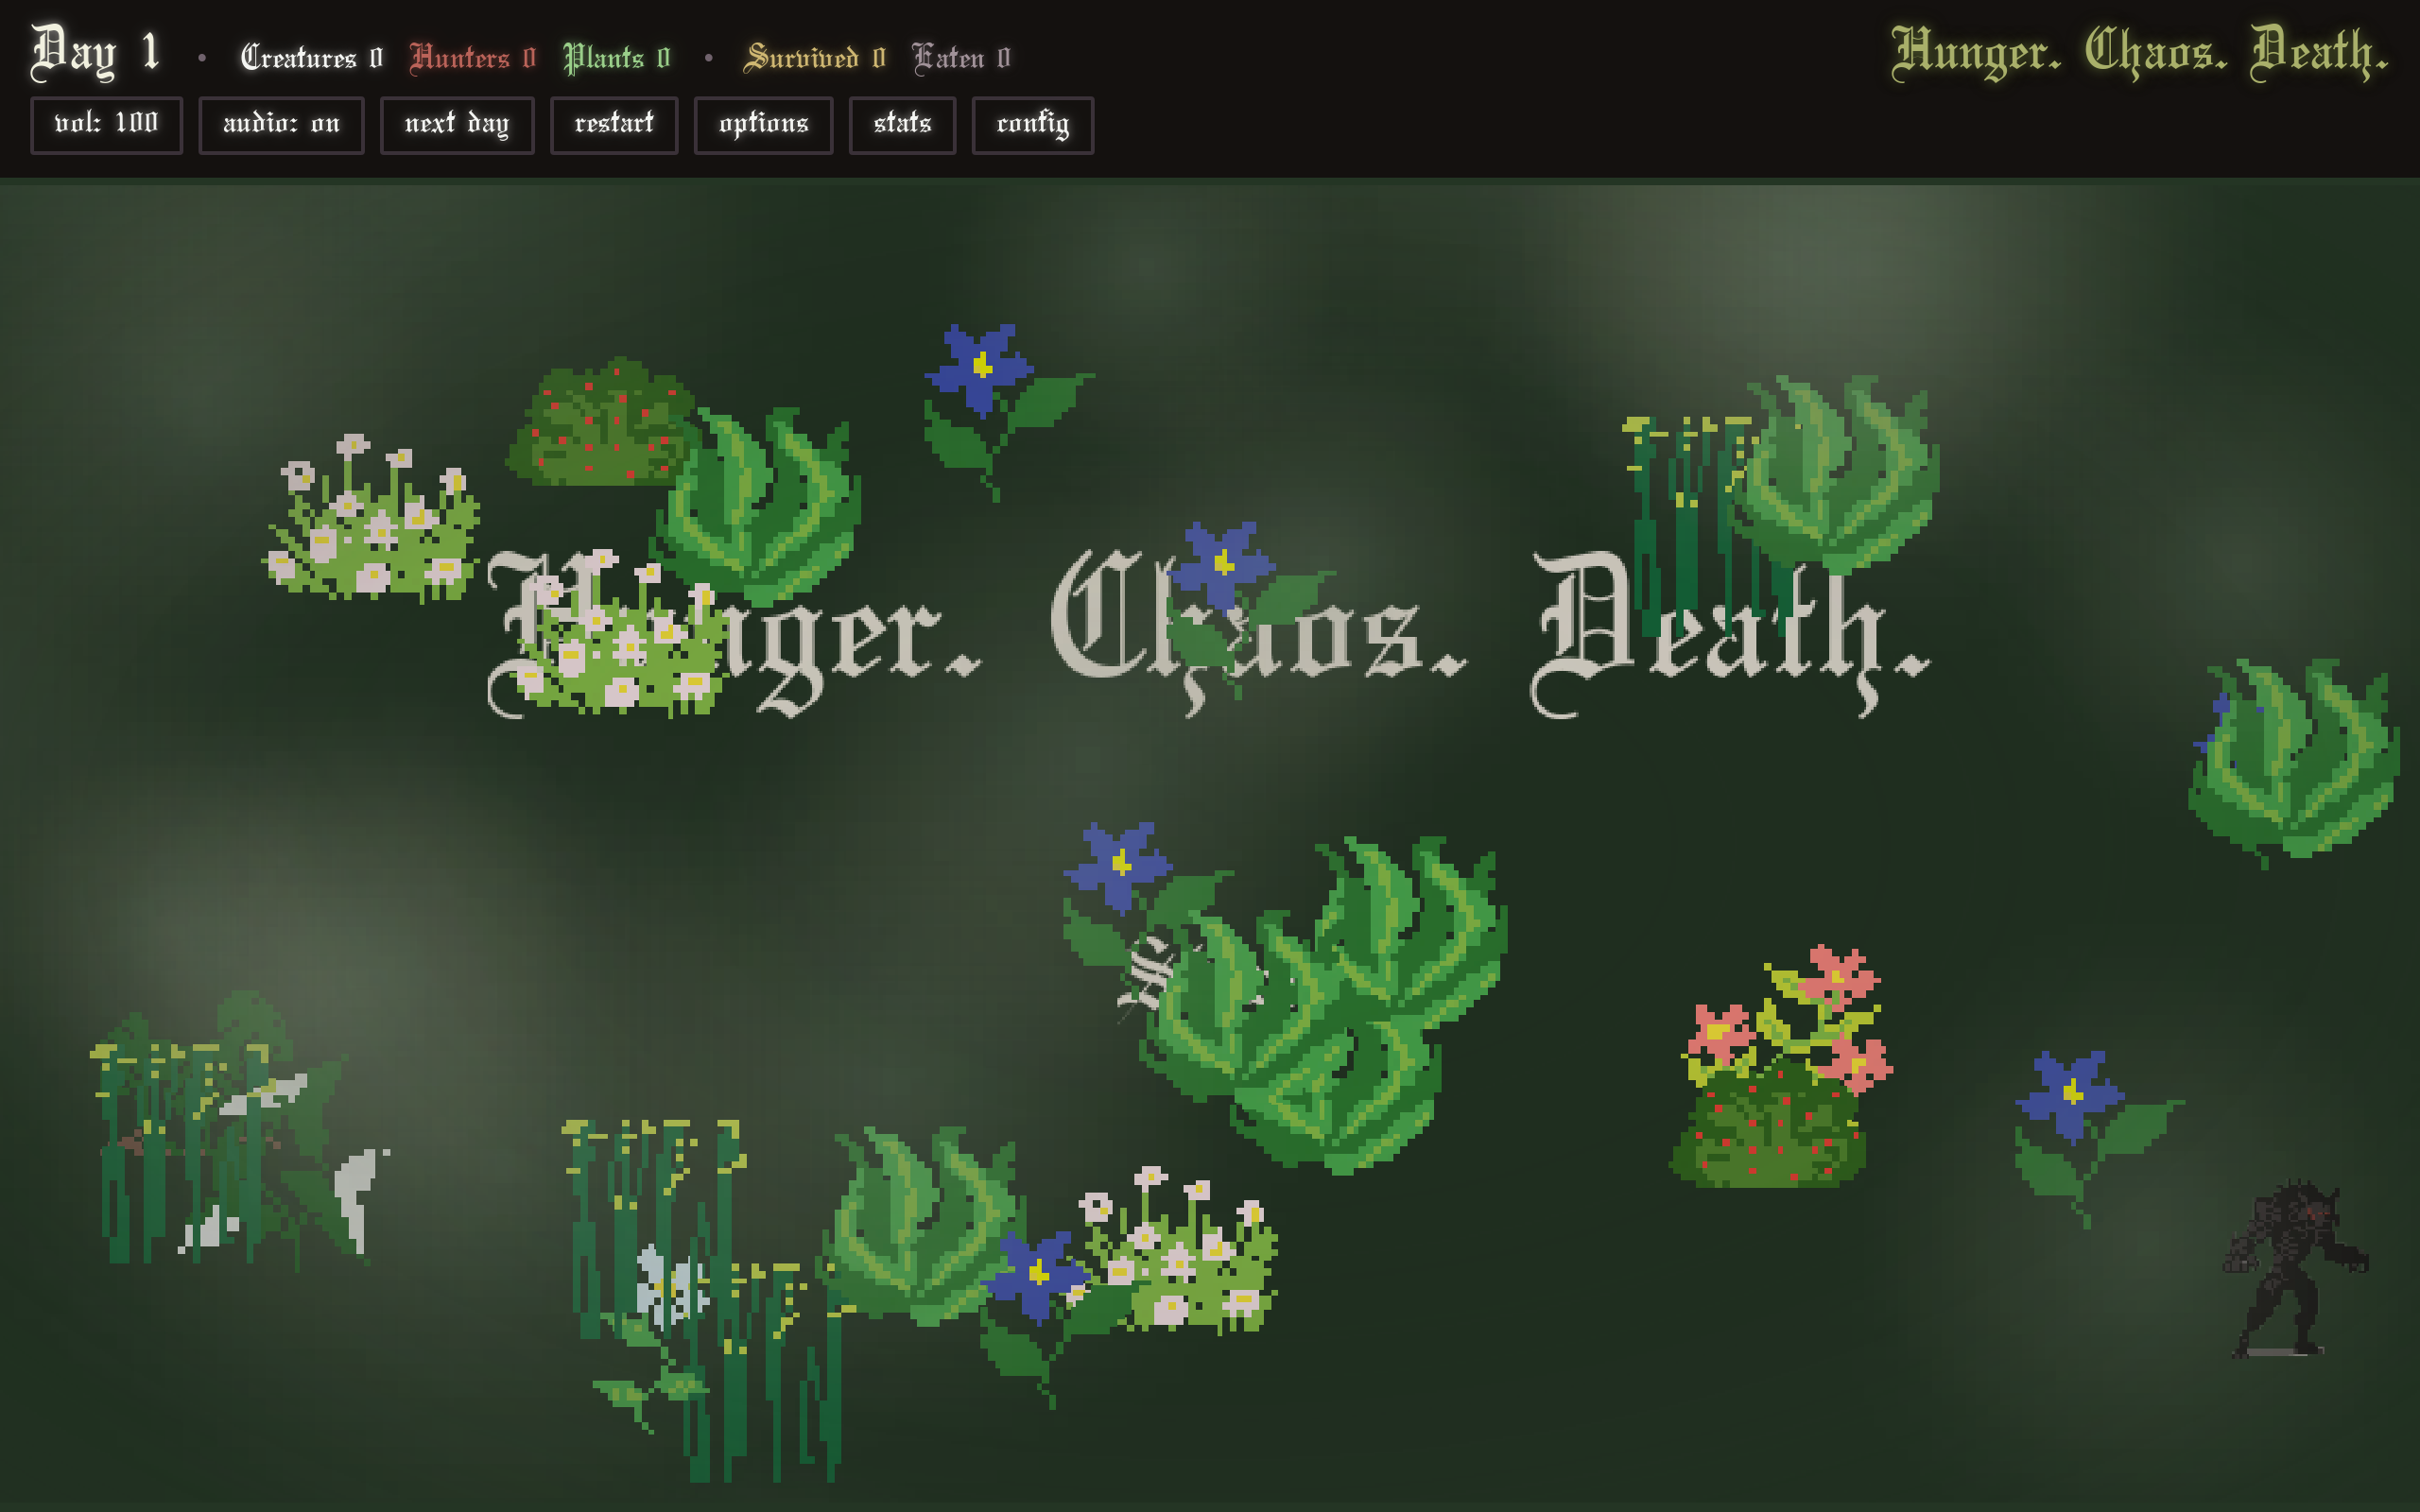
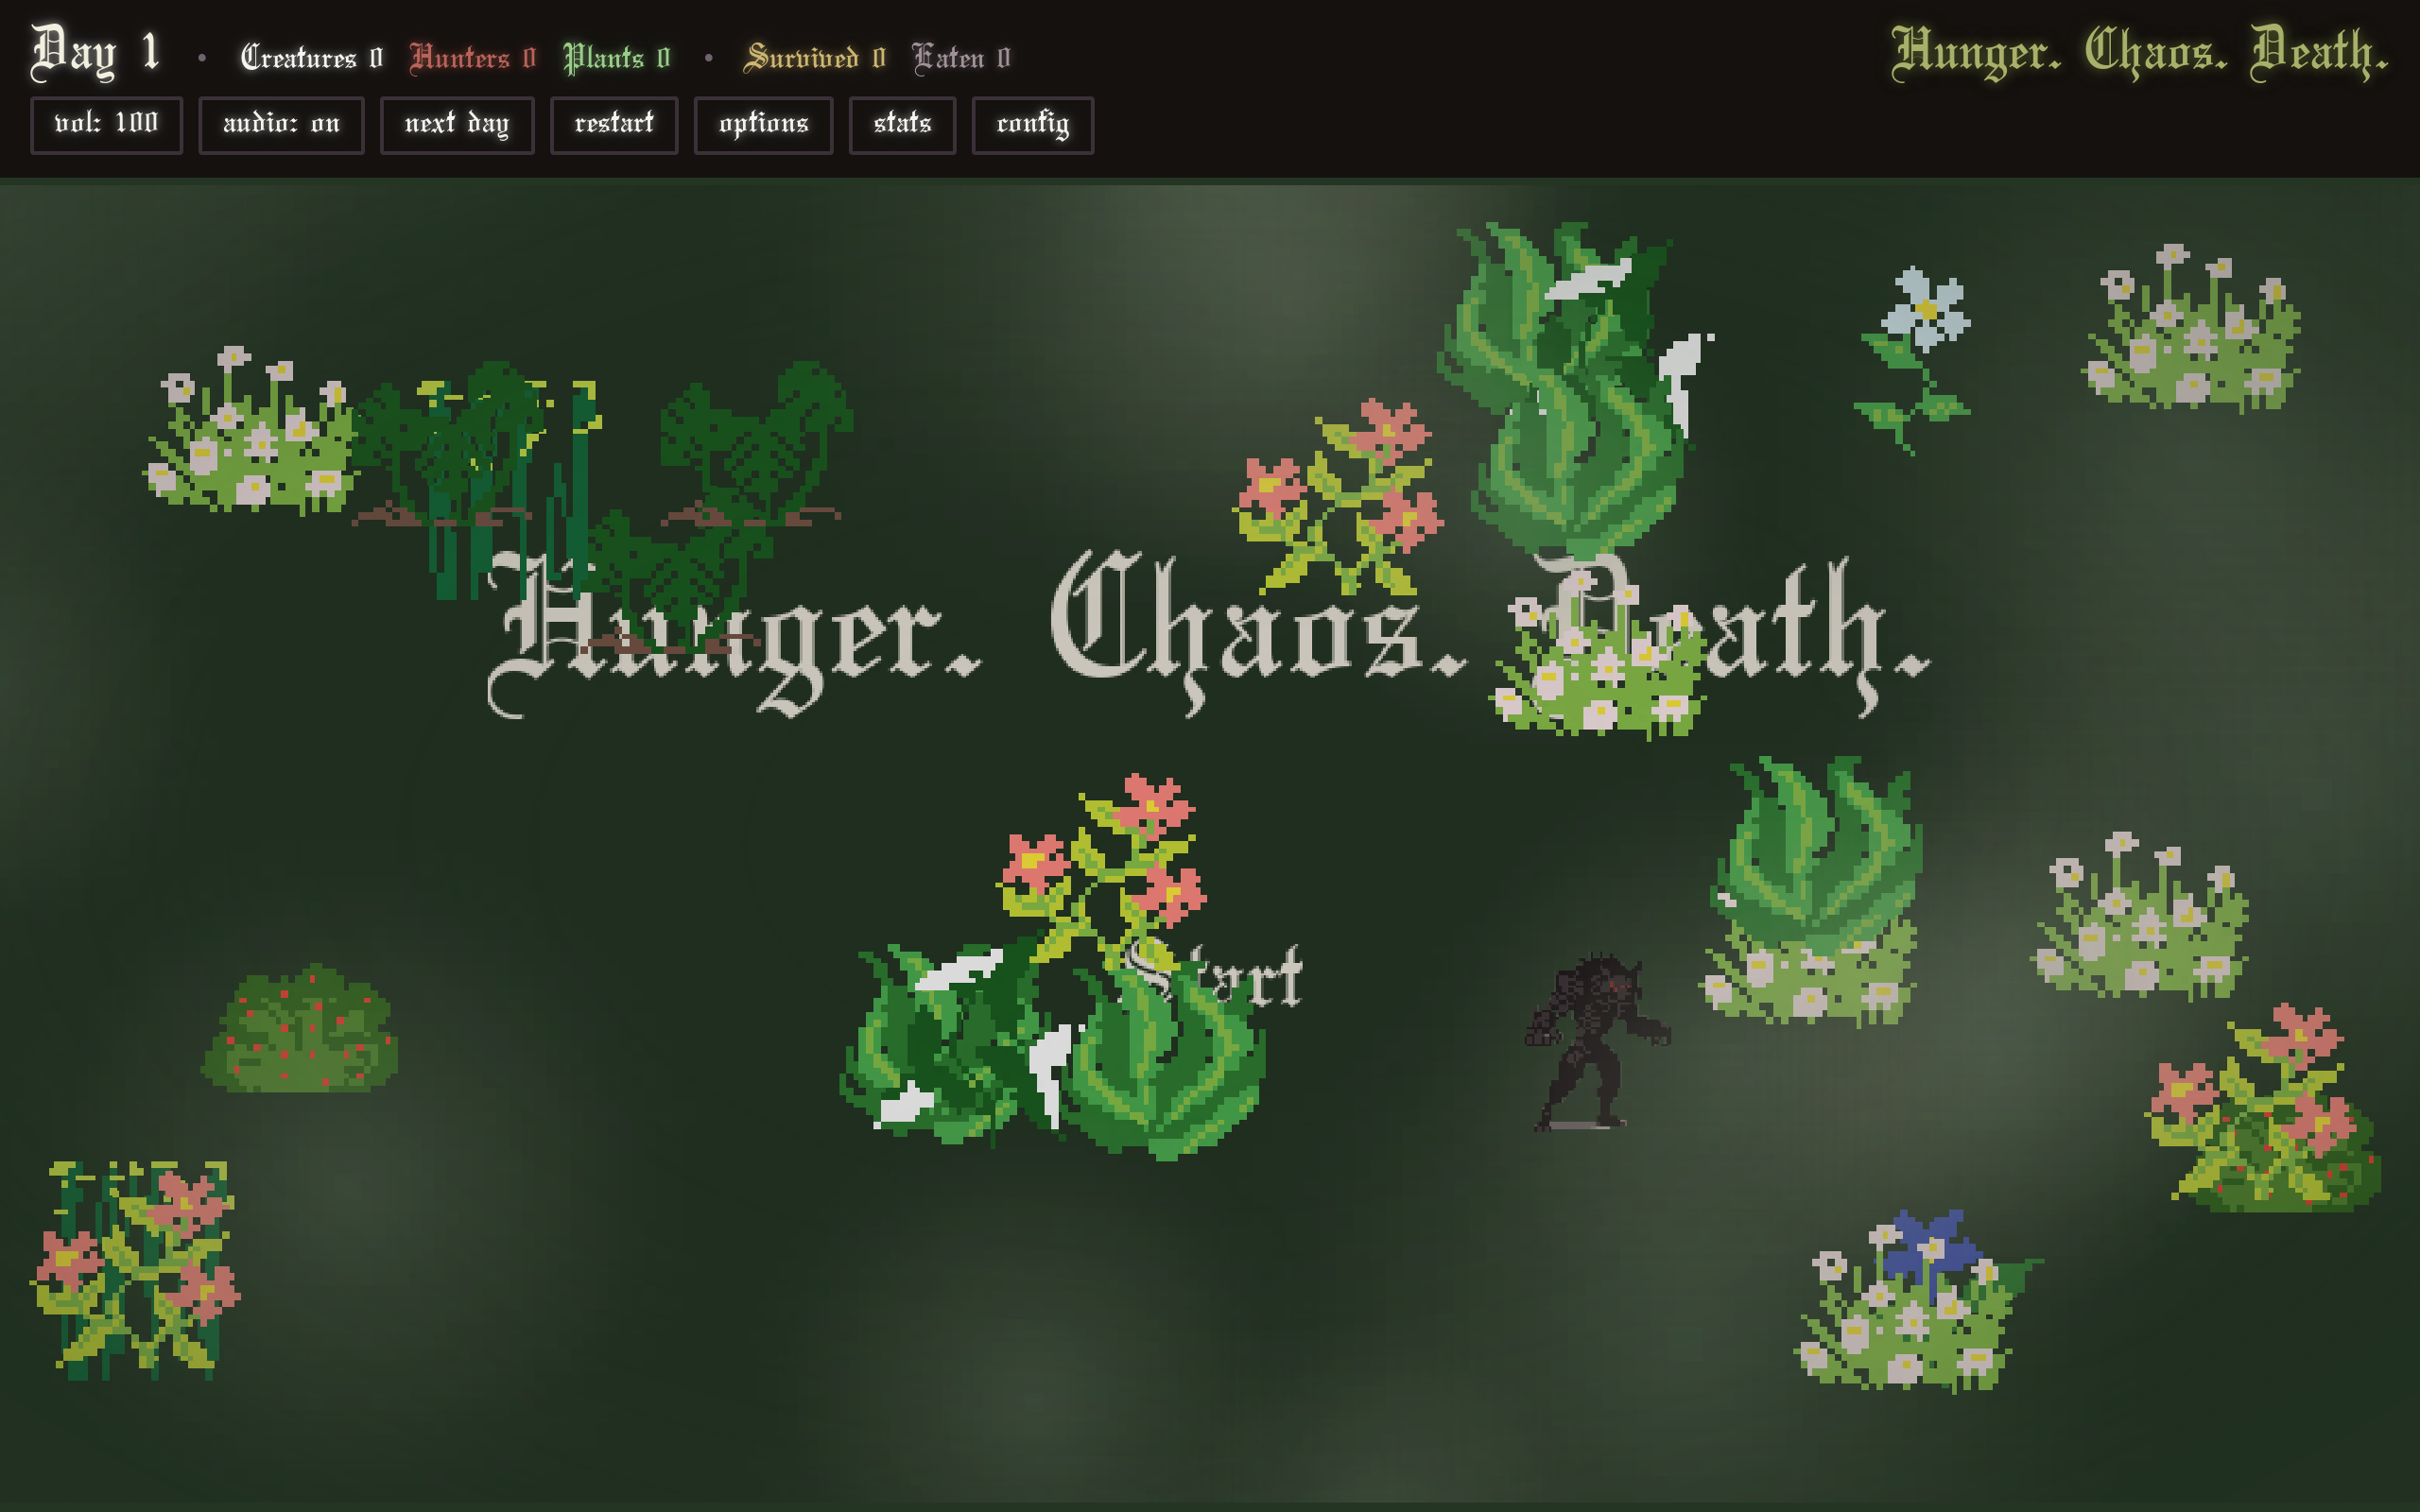
Rewrite README; refresh title screenshot

diff --git a/src/scenes/GameScene.ts b/src/scenes/GameScene.ts
@@ -502,10 +502,12 @@ export default class GameScene extends Phaser.Scene {
         y: { min: -150, max: H + 150 },
         speedX: { min: -8, max: 8 },
         speedY: { min: -5, max: 5 },
-        lifespan: 20000,
-        scale: { min: 0.7, max: 1.7 },
-        alpha: { start: 0.5, end: 0.5 },
-        frequency: 280,
+        lifespan: 18000,
+        // Big, heavily overlapping blobs (300px texture x 1.8-3.8 ~= 540-1140px)
+        // so the mist reads as continuous fog rather than small puffs.
+        scale: { min: 1.8, max: 3.8 },
+        alpha: { start: 0.55, end: 0.55 },
+        frequency: 360,
         quantity: 1,
       })
       .setDepth(820);

diff --git a/README.md b/README.md
@@ -1,46 +1,33 @@
 # Hunger. Chaos. Death.
 
-A browser game about tending a flock you do not directly control. You plant food. The creatures, the hunters and the plants do the rest. Built with Phaser 3, Vite and TypeScript.
+An art game about life.
 
-![Title screen](screenshots/title.png)
+[**Play**](https://mattt.net.au/hungerchaosdeath/) · Phaser 3 · Vite · TypeScript
 
-## How to play
+![Hunger. Chaos. Death.](screenshots/title.png)
 
-- Click to plant a piece of foliage. Hold to lay down a thick trail.
-- Creatures eat plants, speed up and breed. Hunters hunt creatures. Creatures flee to the homes in the four corners.
-- A creature that reaches a home is saved and returns the next day. A creature caught by a hunter dies, and another hunter rises where it fell.
-- Days are endless. The day you reach is your score. Survive a day with at least one creature saved and you roll into the next.
+## About
 
-![Gameplay](screenshots/gameplay.png)
+A field of creatures, plants and hunters. Creatures graze, and a creature that
+eats enough breeds. Offspring carry mutated genes, so speed, appetite, size and
+colour shift across generations, and survivors pass their genes to the next day.
+Hunters move toward the nearest creature and multiply with each kill. Plants
+spread, are grazed back, and spread again; where they stand, they become terrain.
 
-## Features
+The player can plant food and attempt to influence. The rest is emergent.
 
-- Creatures that eat, breed and mutate, with survivors carrying their genes across days so the flock evolves.
-- Hunters that spawn another hunter on every kill, so the threat compounds.
-- Responsive on any screen, portrait or landscape, with touch support.
-- A live config editor, an options panel and a local stats panel.
-
-## Run it
-
-You need [Node.js](https://nodejs.org).
+## Develop
 
 ```bash
 npm install
-npm run dev      # play at http://localhost:8080
-npm run build    # production build into dist/
+npm run dev     # http://localhost:8080
+npm run build   # builds to dist/
 ```
 
-## Built with
+## Stack
 
-- Phaser 3 for rendering, input, physics overlaps and tweens.
-- easystarjs for grid pathfinding. The grid is rebuilt from the current foliage a few times a second, marking blocked cells.
-- TypeScript, bundled by Vite.
-
-Source lives in `src/scenes`. `GameScene` runs the round and the UI, `entities.ts` holds the creature and hunter behaviour, `GameManager` keeps every tunable value in one place, and `utils.ts` has the pathfinding helpers.
-
-## Credits
-
-Started from the official [Phaser 3 + Vite + TypeScript template](https://github.com/phaserjs/template-vite-ts). Game design, art, sound and code are my own.
+Phaser 3 for rendering, input and physics. easystarjs for grid pathfinding.
+TypeScript, bundled with Vite. No UI framework.
 
 ## License
 